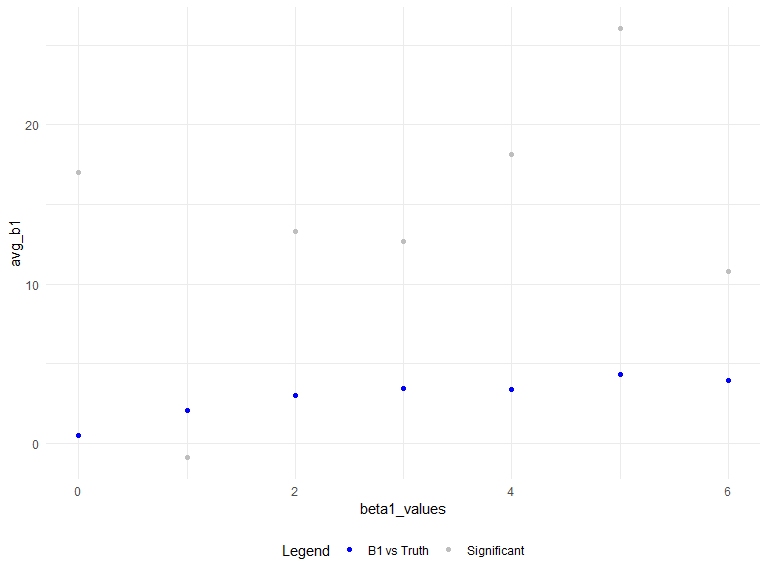
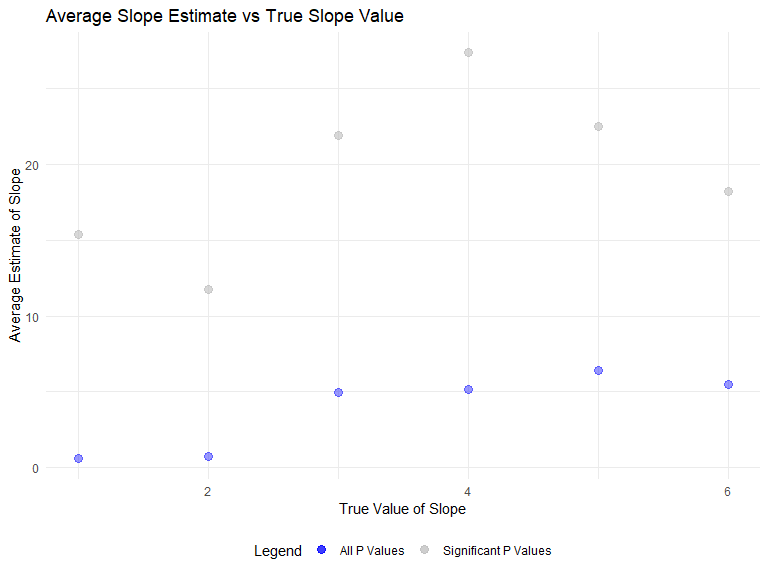
Cleaning up plots!

diff --git a/p8105_hw5_jt3175.md b/p8105_hw5_jt3175.md
@@ -22,11 +22,11 @@ an argument; replaces missing values using the rules defined above; and
 returns the resulting vector.
 
 ``` r
-mean_sepal = mean(pull(iris_with_missing, Sepal.Length), na.rm=TRUE)
-
-test_replace = tibble(replace_na(pull(iris_with_missing, Sepal.Length), mean_sepal))
-
-rest2_replace = tibble(replace_na(pull(iris_with_missing, Species), "virginica"))
+# mean_sepal = mean(pull(iris_with_missing, Sepal.Length), na.rm=TRUE)
+# 
+# test_replace = tibble(replace_na(pull(iris_with_missing, Sepal.Length), mean_sepal))
+# 
+# rest2_replace = tibble(replace_na(pull(iris_with_missing, Species), "virginica"))
 ```
 
 ``` r
@@ -98,7 +98,7 @@ files = tibble(csv_name = list.files("./data/")) %>%
 ## Problem 3
 
 ``` r
-set.seed(1)
+set.seed(4)
 
 sim_regression = function(beta1) {
   
@@ -115,8 +115,11 @@ sim_regression = function(beta1) {
   ls_fit
 }
 
+b1_0 = rerun(100, sim_regression(0)) %>% 
+  bind_rows()
+
 sim_results = 
-  tibble(beta1_values = c(0, 1, 2, 3, 4, 5, 6)) %>% 
+  tibble(beta1_values = c(1, 2, 3, 4, 5, 6)) %>% 
   mutate(
     output_list = map(.x = beta1_values, ~ rerun(100, sim_regression(beta1 = .x))),
     output_df = map(output_list, bind_rows)
@@ -140,7 +143,12 @@ prop_rej = sim_results %>%
   )
 
 ggplot(prop_rej, aes(x = beta1_values, y = prop)) +
-  geom_point()
+  geom_point(size = 3, alpha = .4) +
+  labs(
+    title = "Power vs Effect Size",
+    x = "True Value of β1",
+    y = "Proportion of times the null (β1=0) was rejected"
+  )
 ```
 
 <img src="p8105_hw5_jt3175_files/figure-gfm/unnamed-chunk-7-1.png" width="90%" />
@@ -172,12 +180,17 @@ b1_vs_truth_rejected = sim_results %>%
     avg_b1 = mean(estimate)
   )
 
-plot_b1vstruth = ggplot(b1_vs_truth, aes(x = beta1_values, y = avg_b1)) +
-  geom_point(aes(color = "B1 vs Truth")) +
-  geom_point(data = b1_vs_truth_rejected, aes(color = "Significant")) +
-  scale_color_manual("Legend", values = c("blue", "grey"))
+plot_b1_vs_truth = ggplot(b1_vs_truth, aes(x = beta1_values, y = avg_b1)) +
+  geom_point(aes(color = "All P Values"), size = 3, alpha = .4) +
+  geom_point(data = b1_vs_truth_rejected, aes(color = "Significant P Values"), size = 3, alpha = .6) +
+  scale_color_manual("Legend", values = c("blue", "grey")) +
+  labs(
+    title = "Average Slope Estimate vs True Slope Value",
+    x = "True Value of Slope",
+    y = "Average Estimate of Slope"
+  )
 
-plot_b1vstruth
+plot_b1_vs_truth
 ```
 
 <img src="p8105_hw5_jt3175_files/figure-gfm/unnamed-chunk-8-1.png" width="90%" />
